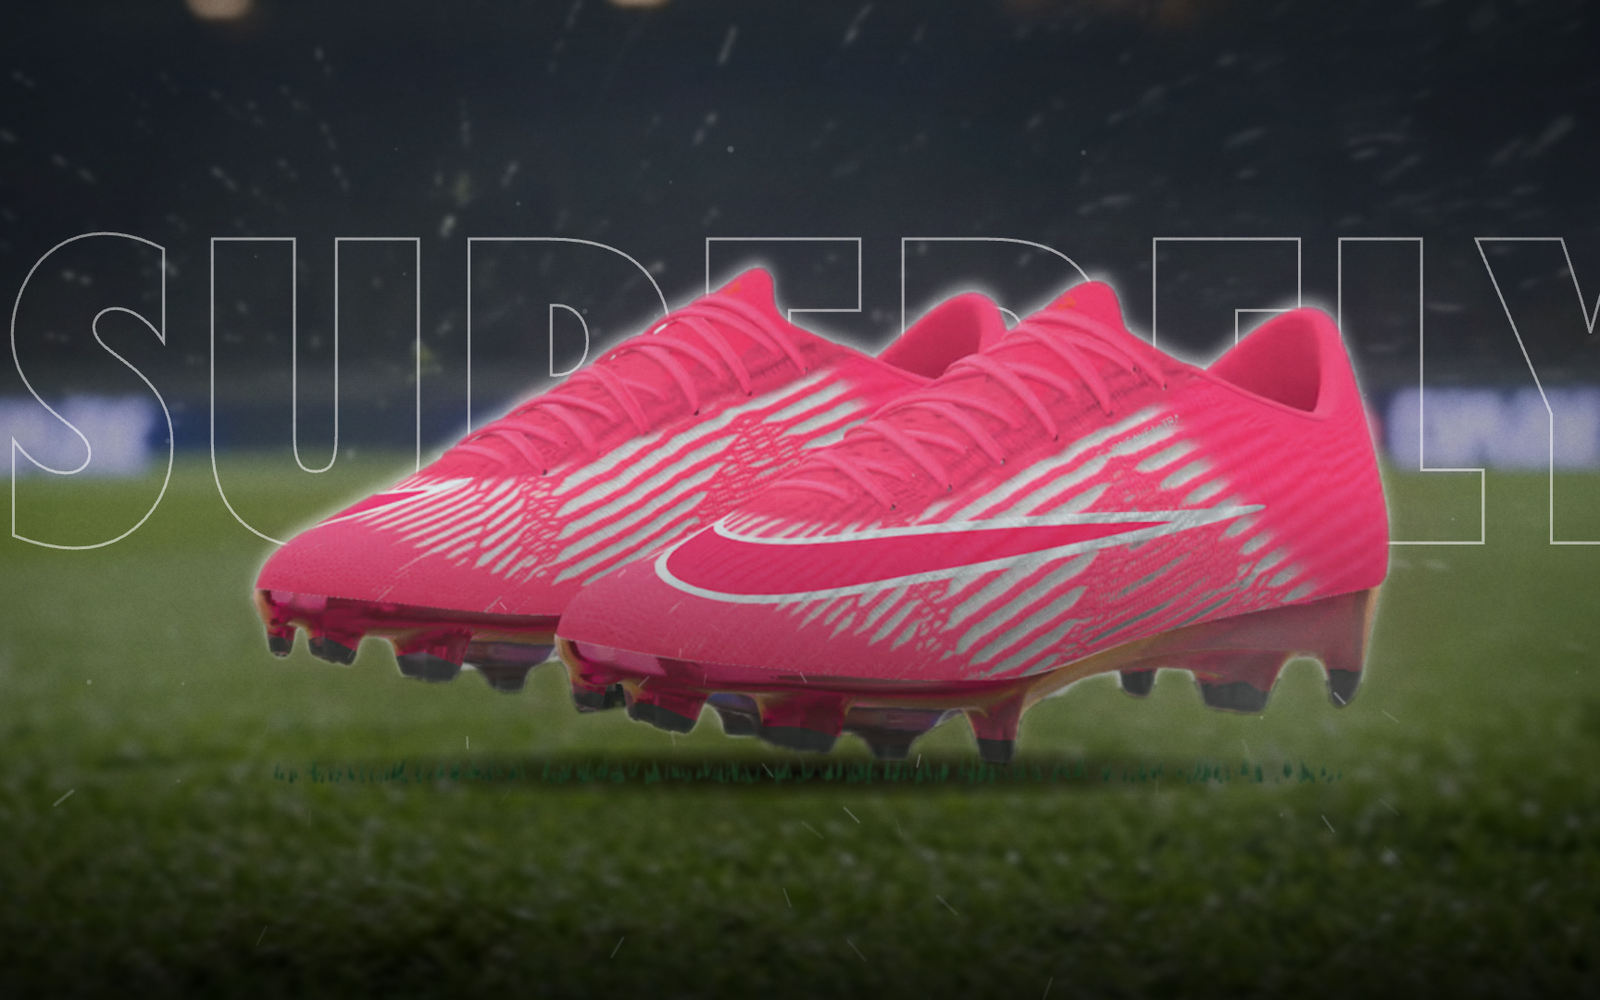
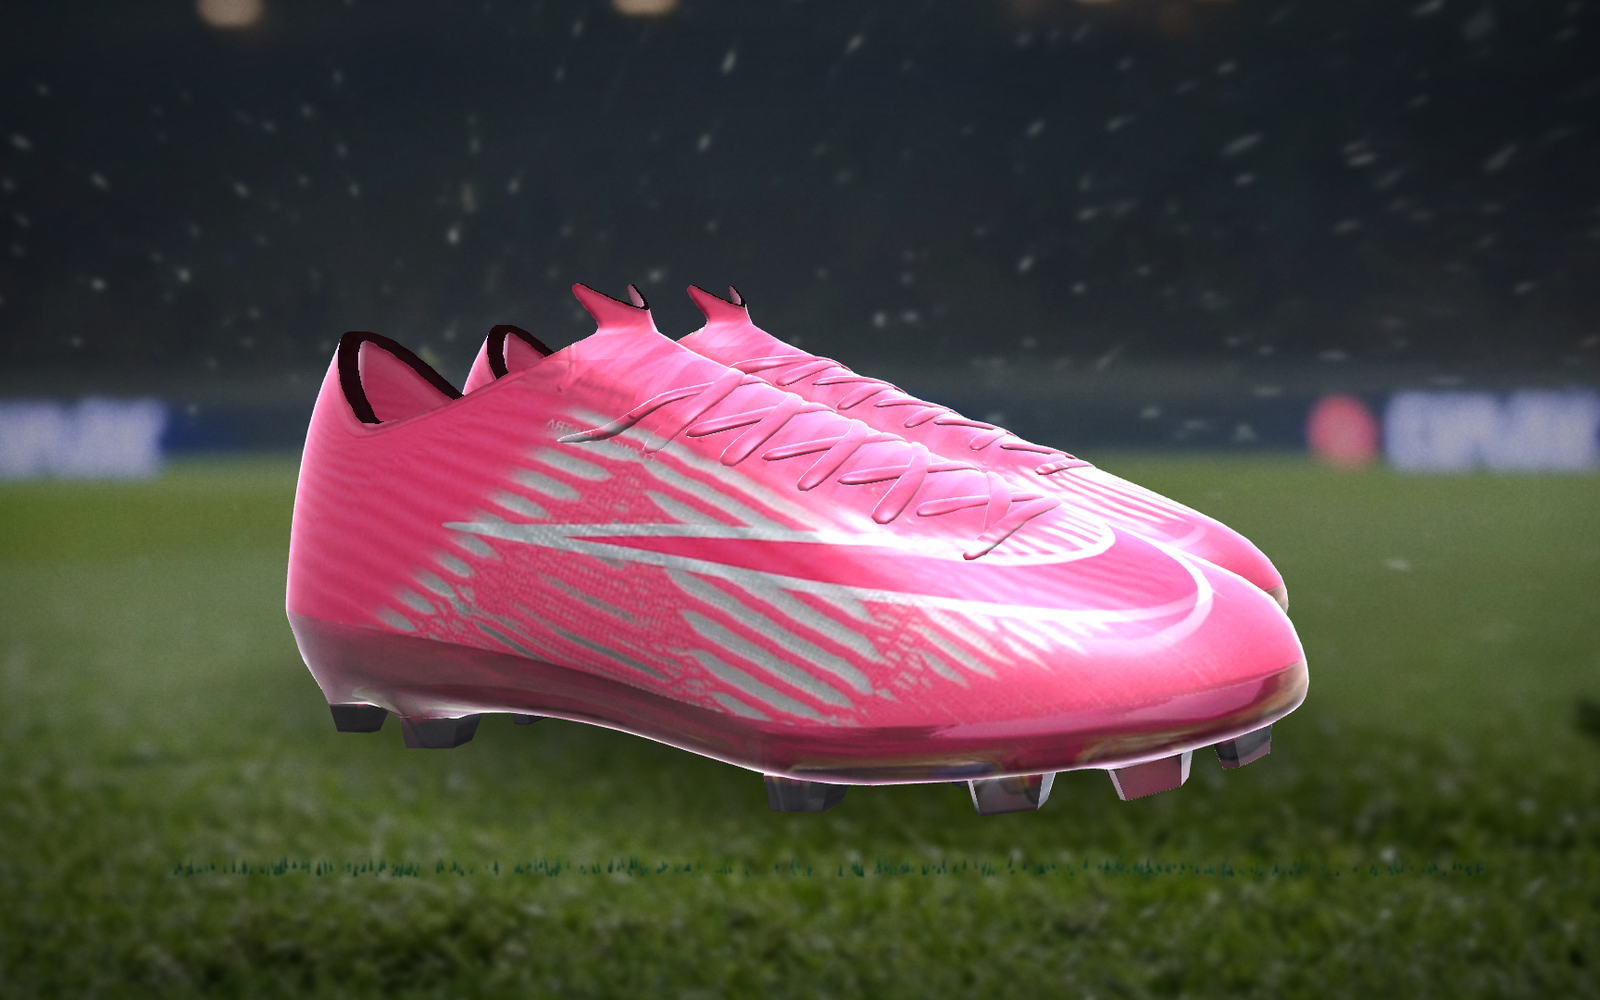
Met à jour la fiche de la pub Nike IA : miniature 3D et description
Miniature tirée de la nouvelle version (la paire 3D sous les projecteurs).
La description précise que le modèle 3D vient de Sketchfab (« Nike
Mercurial Superfly V » par inakiromero, CC BY 4.0) et que sa texture a été
changée avec les vraies photos Nike By You.

diff --git a/projets.html b/projets.html
@@ -206,12 +206,12 @@
           </article>
 
           <!-- PRODUCTION AUDIO & VIDÉO : pub Nike Mercurial, version IA (plans Kling + montage Remotion, MP4 hébergé sur le site) -->
-          <article class="project-card reveal stagger-1" data-category="video" data-ue="ue13" tabindex="0" data-project-img="assets/img/projet-nike-mercurial.webp" data-project-title="Pub Nike Mercurial By You : IA &amp; Motion Design" data-project-tags="IA générative (Kling),Motion design,Remotion,Production audio &amp; vidéo" data-project-desc="Publicité conceptuelle (spec ad) de 31 secondes pour la Nike Mercurial Superfly 11 Elite By You, dans un coloris rose personnalisé. Les plans « réels » (tunnel, projecteurs, sprint, frappe, ballon dans le ciel) sont générés avec l'IA Kling à partir d'une photo de la chaussure, puis montés et animés avec Remotion (React + TypeScript) avec les vraies photos du configurateur Nike By You, la typographie et le carton final. Montage calé au temps près sur une instrumentale libre de droits : chaque coupe et chaque mot tombent sur le beat, la frappe sur le drop, et la traînée de fumée du ballon, suivie image par image, se transforme en swoosh. Sound design plan par plan : crampons, projecteurs, frappe de balle, foule de stade. Projet étudiant, sans lien avec Nike." data-project-video="assets/video/nike-mercurial-by-you-ia.mp4">
-            <div class="project-card__image"><img src="assets/img/projet-nike-mercurial.webp" alt="Paire de Nike Mercurial Superfly roses sur la pelouse d'un stade de nuit, extrait de la pub" loading="lazy"></div>
+          <article class="project-card reveal stagger-1" data-category="video" data-ue="ue13" tabindex="0" data-project-img="assets/img/projet-nike-mercurial.webp" data-project-title="Pub Nike Mercurial By You : IA &amp; Motion Design" data-project-tags="IA générative (Kling),3D (Sketchfab + Three.js),Motion design,Remotion,Production audio &amp; vidéo" data-project-desc="Publicité conceptuelle (spec ad) de 31 secondes pour la Nike Mercurial Superfly 11 Elite By You, dans un coloris rose personnalisé. Les plans « réels » (tunnel, sprint, frappe, ballon dans le ciel) sont générés avec l'IA Kling à partir d'une photo de la chaussure. La paire en 3D (projecteurs, plan héros, configurateur By You) vient d'un modèle 3D récupéré sur Sketchfab (« Nike Mercurial Superfly V » par inakiromero, licence CC BY 4.0), dont la texture a ensuite été changée : les vraies photos du configurateur Nike By You sont projetées sur le modèle, rendu avec Three.js. Le tout est monté et animé avec Remotion (React + TypeScript), avec les gros plans sur les vraies photos, la typographie et le carton final. Montage calé au temps près sur une instrumentale libre de droits : chaque coupe et chaque mot tombent sur le beat, la frappe sur le drop, et la traînée de fumée du ballon, suivie image par image, se transforme en swoosh. Sound design plan par plan : crampons, projecteurs, frappe de balle, foule de stade. Projet étudiant, sans lien avec Nike." data-project-video="assets/video/nike-mercurial-by-you-ia.mp4">
+            <div class="project-card__image"><img src="assets/img/projet-nike-mercurial.webp" alt="Paire de Nike Mercurial Superfly roses en 3D sur la pelouse d'un stade de nuit, extrait de la pub" loading="lazy"></div>
             <div class="project-card__body">
               <div class="project-card__tags"><span class="tag tag--video">Audio &amp; Vidéo</span><span class="tag tag--secondary">IA + Remotion</span></div>
               <h3 class="project-card__title">Pub Nike Mercurial By You : IA &amp; Motion Design</h3>
-              <p class="project-card__desc">Spec ad de 31 s : plans générés avec Kling, vraies photos produit, montage sur le beat et sound design plan par plan.</p>
+              <p class="project-card__desc">Spec ad de 31 s : plans générés avec Kling, modèle 3D retexturé avec les vraies photos, montage sur le beat et sound design plan par plan.</p>
               <button class="project-card__link" type="button">Voir le projet <svg width="16" height="16" viewBox="0 0 24 24" fill="none" stroke="currentColor" stroke-width="2" stroke-linecap="round" aria-hidden="true"><line x1="5" y1="12" x2="19" y2="12"/><polyline points="12 5 19 12 12 19"/></svg></button>
             </div>
           </article>
